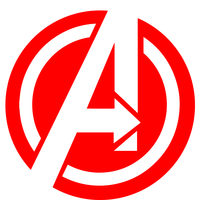
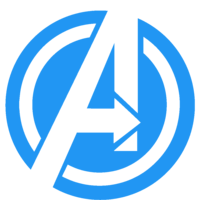
파비콘 색상변경

diff --git a/src/main/java/com/avengers/student/security/aa.java b/src/main/java/com/avengers/student/security/aa.java
@@ -1,7 +1,60 @@
 package com.avengers.student.security;
 
+import java.security.Key;
+import java.security.KeyFactory;
+import java.security.KeyPair;
+import java.security.KeyPairGenerator;
+import java.security.spec.RSAPrivateKeySpec;
+import java.security.spec.RSAPublicKeySpec;
+
+import javax.crypto.Cipher;
+
 
 public class aa {
+	
+	public static void main(String[] args) {
+		
+		
+		try {
+            //공개키 및 개인키 생성
+            KeyPairGenerator keyPairGenerator = KeyPairGenerator.getInstance("RSA");
+            keyPairGenerator.initialize(2048);
+            
+            KeyPair keyPair = keyPairGenerator.genKeyPair();
+            Key publicKey = keyPair.getPublic(); // 공개키
+            Key privateKey = keyPair.getPrivate(); // 개인키
+            
+            KeyFactory keyFactory = KeyFactory.getInstance("RSA");
+            RSAPublicKeySpec publicKeySpec = keyFactory.getKeySpec(publicKey, RSAPublicKeySpec.class);
+            RSAPrivateKeySpec privateKeySpec = keyFactory.getKeySpec(privateKey, RSAPrivateKeySpec.class);
+ 
+            //System.out.println("public key modulus(" + publicKeySpec.getModulus() + ") exponent(" + publicKeySpec.getPublicExponent() + ")");
+            //System.out.println("private key modulus(" + privateKeySpec.getModulus() + ") exponent(" + privateKeySpec.getPrivateExponent() + ")");
+ 
+            
+            // 암호화(Encryption) 예제
+            String inputStr = "세이프123"; // "세이프123"을 암호화한다!
+ 
+            Cipher cipher = Cipher.getInstance("RSA");
+            cipher.init(Cipher.ENCRYPT_MODE, publicKey);
+            byte[] arrCipherData = cipher.doFinal(inputStr.getBytes()); // 암호화된 데이터(byte 배열)
+            String strCipher = new String(arrCipherData);
+            
+            System.out.println(strCipher); // 암호화 결과물 출력(눈으로 보이기에는 깨질 수 있음)
+ 
+            
+            // 복호화(Decryption) 예제
+            cipher.init(Cipher.DECRYPT_MODE, privateKey);
+            byte[] arrData = cipher.doFinal(arrCipherData);
+            String strResult = new String(arrData);
+ 
+            System.out.println(strResult); // 복호화 결과물 출력(다시 "세이프123"이 출력됨)
+        } catch (Exception e) {
+            e.printStackTrace();
+        }
+		
+		
+	}
 
 
 }
